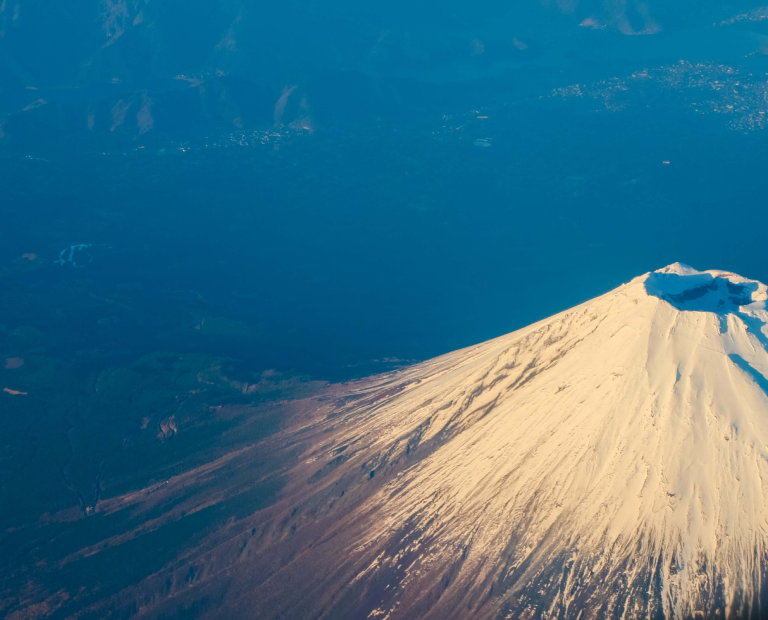
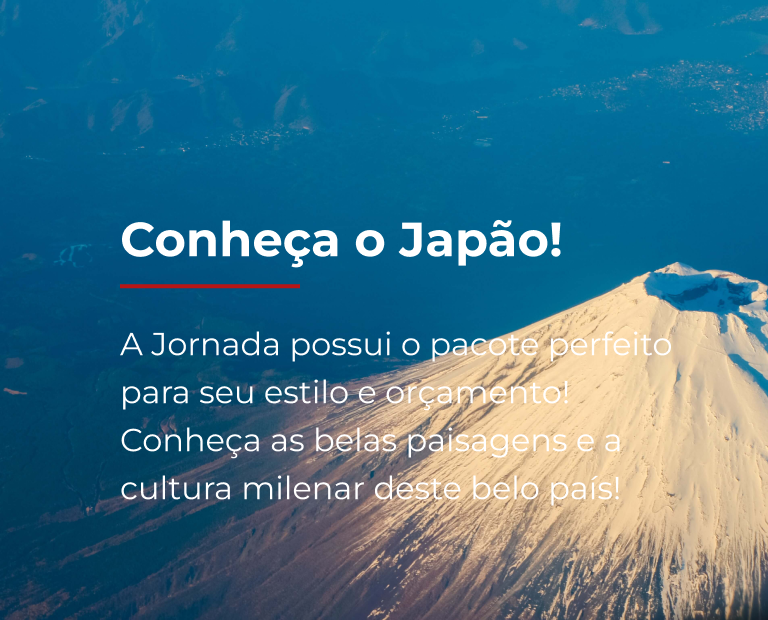
feat: adiciona responsividade tablet na pagina de pacotes

diff --git a/css/pacotes.css b/css/pacotes.css
@@ -1,9 +1,9 @@
-.hero-package img {
-    
+.hero-package .hero-img {
+    background: url(../img/hero-japao-mobile.png) no-repeat;
+    background-size: cover;
+    height: 400px;
     width: 100%;
-    display: block;
 }
-
 .payments-content {
     margin-bottom: 24px;
 }
@@ -40,7 +40,61 @@
     width: 100%;
 }
 
-section.bottom-hero-package {
+.payments-package h3.content-title {
+    font-size: 40px;
+    font-weight: 700;
+    line-height: 1;
+}
+
+@media screen and (min-width: 768px) {
+    .hero-package .hero-img {
+        background: url(../img/hero-japao-tablet.png) no-repeat;
+        background-size: cover;
+        height: 620px;
+    }
+
+    .bottom-hero-package .hero-img {
+        background: url(../img/bg-bottom-hero-japan-tablet.png) no-repeat;
+        background-size: cover;
+        height: 400px;
+    }
+
+    .image-gallery {
+        height: 600px;
+    }
+
+    .image-gallery .first {
+        background: url(../img/gallery-japao-1-tablet.png) no-repeat;
+        background-size: cover;
+    }
+
+    .image-gallery .second {
+        background: url(../img/gallery-japao-2-tablet.png) no-repeat;
+        background-size: cover;
+    }
+
+    .image-gallery .third {
+        background: url(../img/gallery-japao-3-tablet.png) no-repeat;
+        background-size: cover;
+    }
+
+    .destinations .button {
+        width: 280px;
+    }
+
+    section.bottom-hero-package {
+        width: 100%;
+        margin: 0;
+    }
+    section.hero-package {
     width: 100%;
     margin: 0;
+}
+.payments-package .button {
+    display: none;
+}
+.navigation-menu ul li a:hover {
+    text-decoration: underline;
+}
+
 }

diff --git a/pacotes-de-viagens.html b/pacotes-de-viagens.html
@@ -37,21 +37,21 @@
         <nav>
           <ul class="list-links">
             <li>
-              <a href="blog.html" target="_blank" title="Acessar blog"></a>
+              <a href="blog.html" target="_blank" title="Acessar blog">Blog</a>
             </li>
             <li>
               <a
                 href="pacotes.html"
                 target="_blank"
                 title="Acessar Pacote de Viagens"
-              ></a>
+              >Pacote de viagem</a>
             </li>
             <li>
               <a
                 href="contato.html"
                 target="_blank"
                 title="Acessar Contato"
-              ></a>
+              >Contato</a>
             </li>
           </ul>
         </nav>
@@ -59,10 +59,7 @@
     </header>
     <main>
       <section class="hero-package">
-        <img
-          src="img/hero-japao-mobile.png"
-          alt="Conheça o Japão - A Jornada possui o pacote perfeito para seu estilo e orçamento"
-        />
+        <div class="hero-img"></div>
       </section>
       <section class="destinations">
         <div class="section-title">

diff --git a/index.html b/index.html
@@ -9,7 +9,7 @@
     <meta name="og:description" content="Jornada Viagens,uma agência apaixonada por criar viagens inesquecíveis.">
     <meta name="og:image" content="https://github.com/Padnogueira/jornada-viagens/img/logo-footer.png">
     <meta name="og:type" content="website">
-    <meta name="og:url" content="https://github.com/Padnogueira/jornada-viagens">
+    <meta name="og:url" content="">
 
     <link rel="icon" href="..//jornada-viagens/img/favico.svg" type="xml/svg">
     <link rel="stylesheet" href="css/style.css" />
